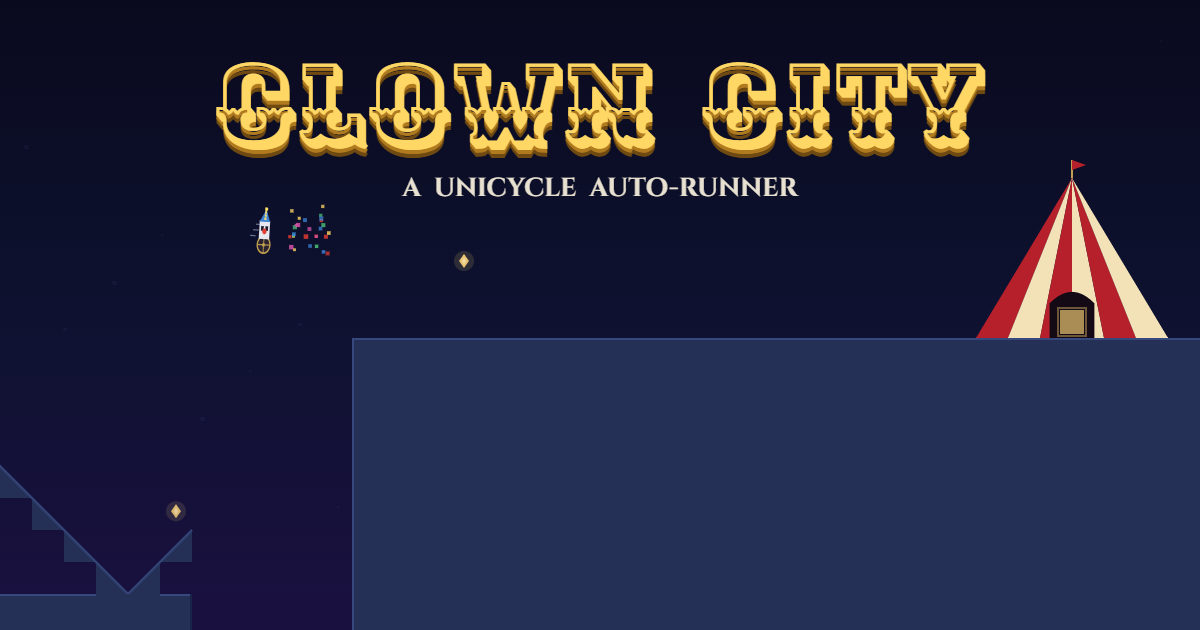
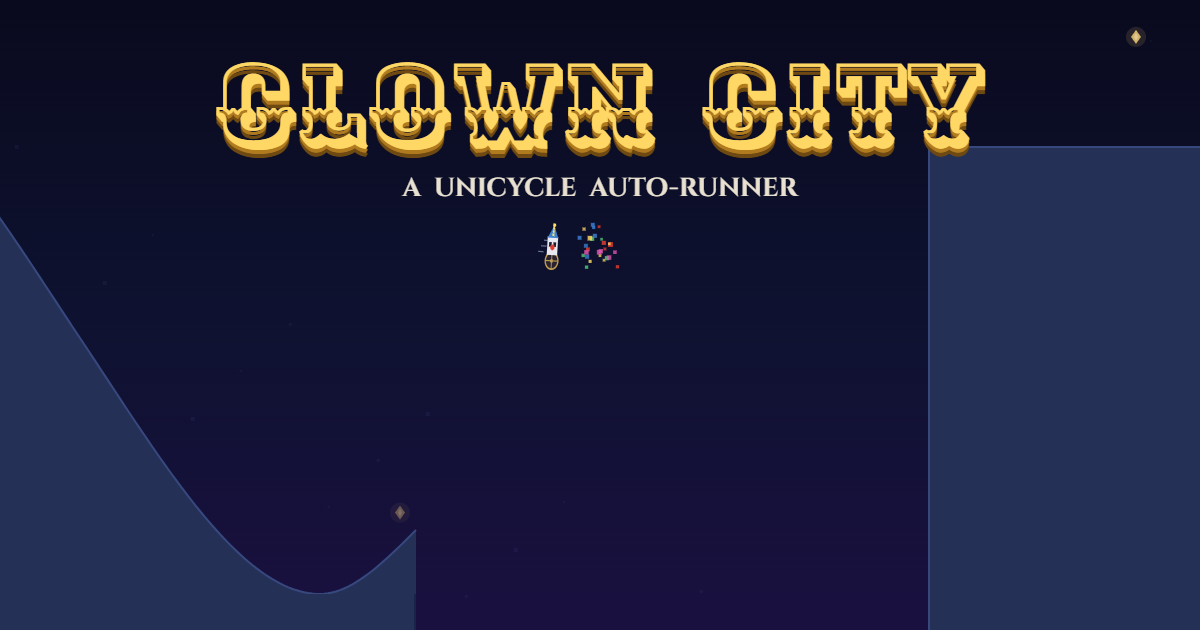
chore(release): README and link preview for v0.6.0
- README: v0.6.0 status, snappy turns (turning is the core move), boost
  belts, height-for-speed ramps, turnaround puzzles; the treadmill line is
  gone (no level uses it).
- og.png re-rendered from the new Big Drop: ramp, Poko mid-launch over the
  pit, the mesa. verify/og.js reframed (the old coordinates showed empty sky).

diff --git a/verify/og.js b/verify/og.js
@@ -9,10 +9,10 @@
     Engine.halted = true;
     try {
       Engine.setView(W, H);
-      Level.load(2);                         // The Big Drop: kicker, chasm, tent
+      Level.load(2);                         // The Big Drop: ramp, pit, mesa
       Entities.list.length = 0;
-      Camera.snapTo(26 * 32, 110);           // cols 26–63: kicker → whole tent; sky for the title
-      Player.spawn(34 * 32, 10.5 * 32);      // mid-leap over the chasm, below the title
+      Camera.snapTo(27 * 32, 110);           // cols 27–64: ramp → pit → mesa edge; sky for the title
+      Player.spawn(44 * 32, 11 * 32);        // mid-launch over the pit, below the title
       Object.assign(Player, { respawning: false, vx: 620, vy: -120, lean: 0.06, squash: 1.15 });
       Particles.pool.length = 0;
       Player._carnivalSpray(1);

diff --git a/README.md b/README.md
@@ -9,8 +9,9 @@ Play it live at [clowncity.russelldangerr.com](https://clowncity.russelldangerr.
 
 ## Status
 
-v0.5.0 — three levels (The Big Top, The Catwalk, The Big Drop) with rideable
-slopes, wall-jump climbs, and a big-top finale. Plays on phones held upright
+v0.6.0 — three levels (The Big Top, The Catwalk, The Big Drop) with boost belts,
+curved launch ramps, turnaround puzzles, wall-jump climbs, and a big-top finale.
+Plays on phones held upright
 (on-screen controls) or sideways (swipe and tap), and on desktop.
 
 ## Play
@@ -26,21 +27,24 @@ Open `index.html` in a browser. No build step required.
 | Spray confetti | Press the arrow you're heading | Swipe the way you're heading | Press the arrow you're heading |
 | Pause (restart, levels, sound) | ❚❚ button | ❚❚ corner button | Esc / P |
 
-Reversing is a **weighty** turnaround: Poko decelerates, pauses, then accelerates
-the other way. The braking lunge — the wheel kicking out in the *old* direction —
+Turning is the core move. Reversing is a **snappy** turnaround: Poko brakes,
+then is back to full speed the other way in about half a second, ready to jump.
+The braking lunge — the wheel kicking out in the *old* direction —
 is an attack, and pressing the way you're already heading sprays confetti that
 kills whatever it lands on (it costs speed). You can also **stomp** enemies from
 above. A pit fall, or touching an enemy from the side, is fatal.
 
 ## Features
 
-- Bidirectional auto-runner with weighty unicycle momentum and a start-of-level speed ramp
+- Bidirectional auto-runner with unicycle momentum, snappy turnarounds and a start-of-level speed ramp
 - Phone-first controls: an on-screen deck when held upright, swipe / tap when sideways,
   full keyboard parity, and a tappable pause menu
 - Brake-lunge, confetti-spray and stomp combat
-- Treadmill surfaces that cap speed at 0.5 and bleed momentum
-- Rideable 45° slopes — bomb downhill to bank "overspeed" that powers a bigger jump
-- Wall-slide / wall-jump shafts and an elevated catwalk traverse
+- Height-for-speed physics: drop down a curved ramp to bank "overspeed" that's kept in
+  the air; press on a launch ramp to fire off its lip — no speed caps
+- Boost belts that sling Poko up to 1.7× speed in either direction
+- Turnaround puzzles where the way forward is behind you, wall-jump shafts, and an
+  elevated catwalk traverse
 - Moving + one-way platforms, gaps, and patrol monsters
 - Coyote time + input buffering, squash & stretch, particles, screen shake/flash
 - Centralized design tokens in [`js/tokens.js`](js/tokens.js) — see [`DESIGN-SYSTEM.md`](DESIGN-SYSTEM.md)
